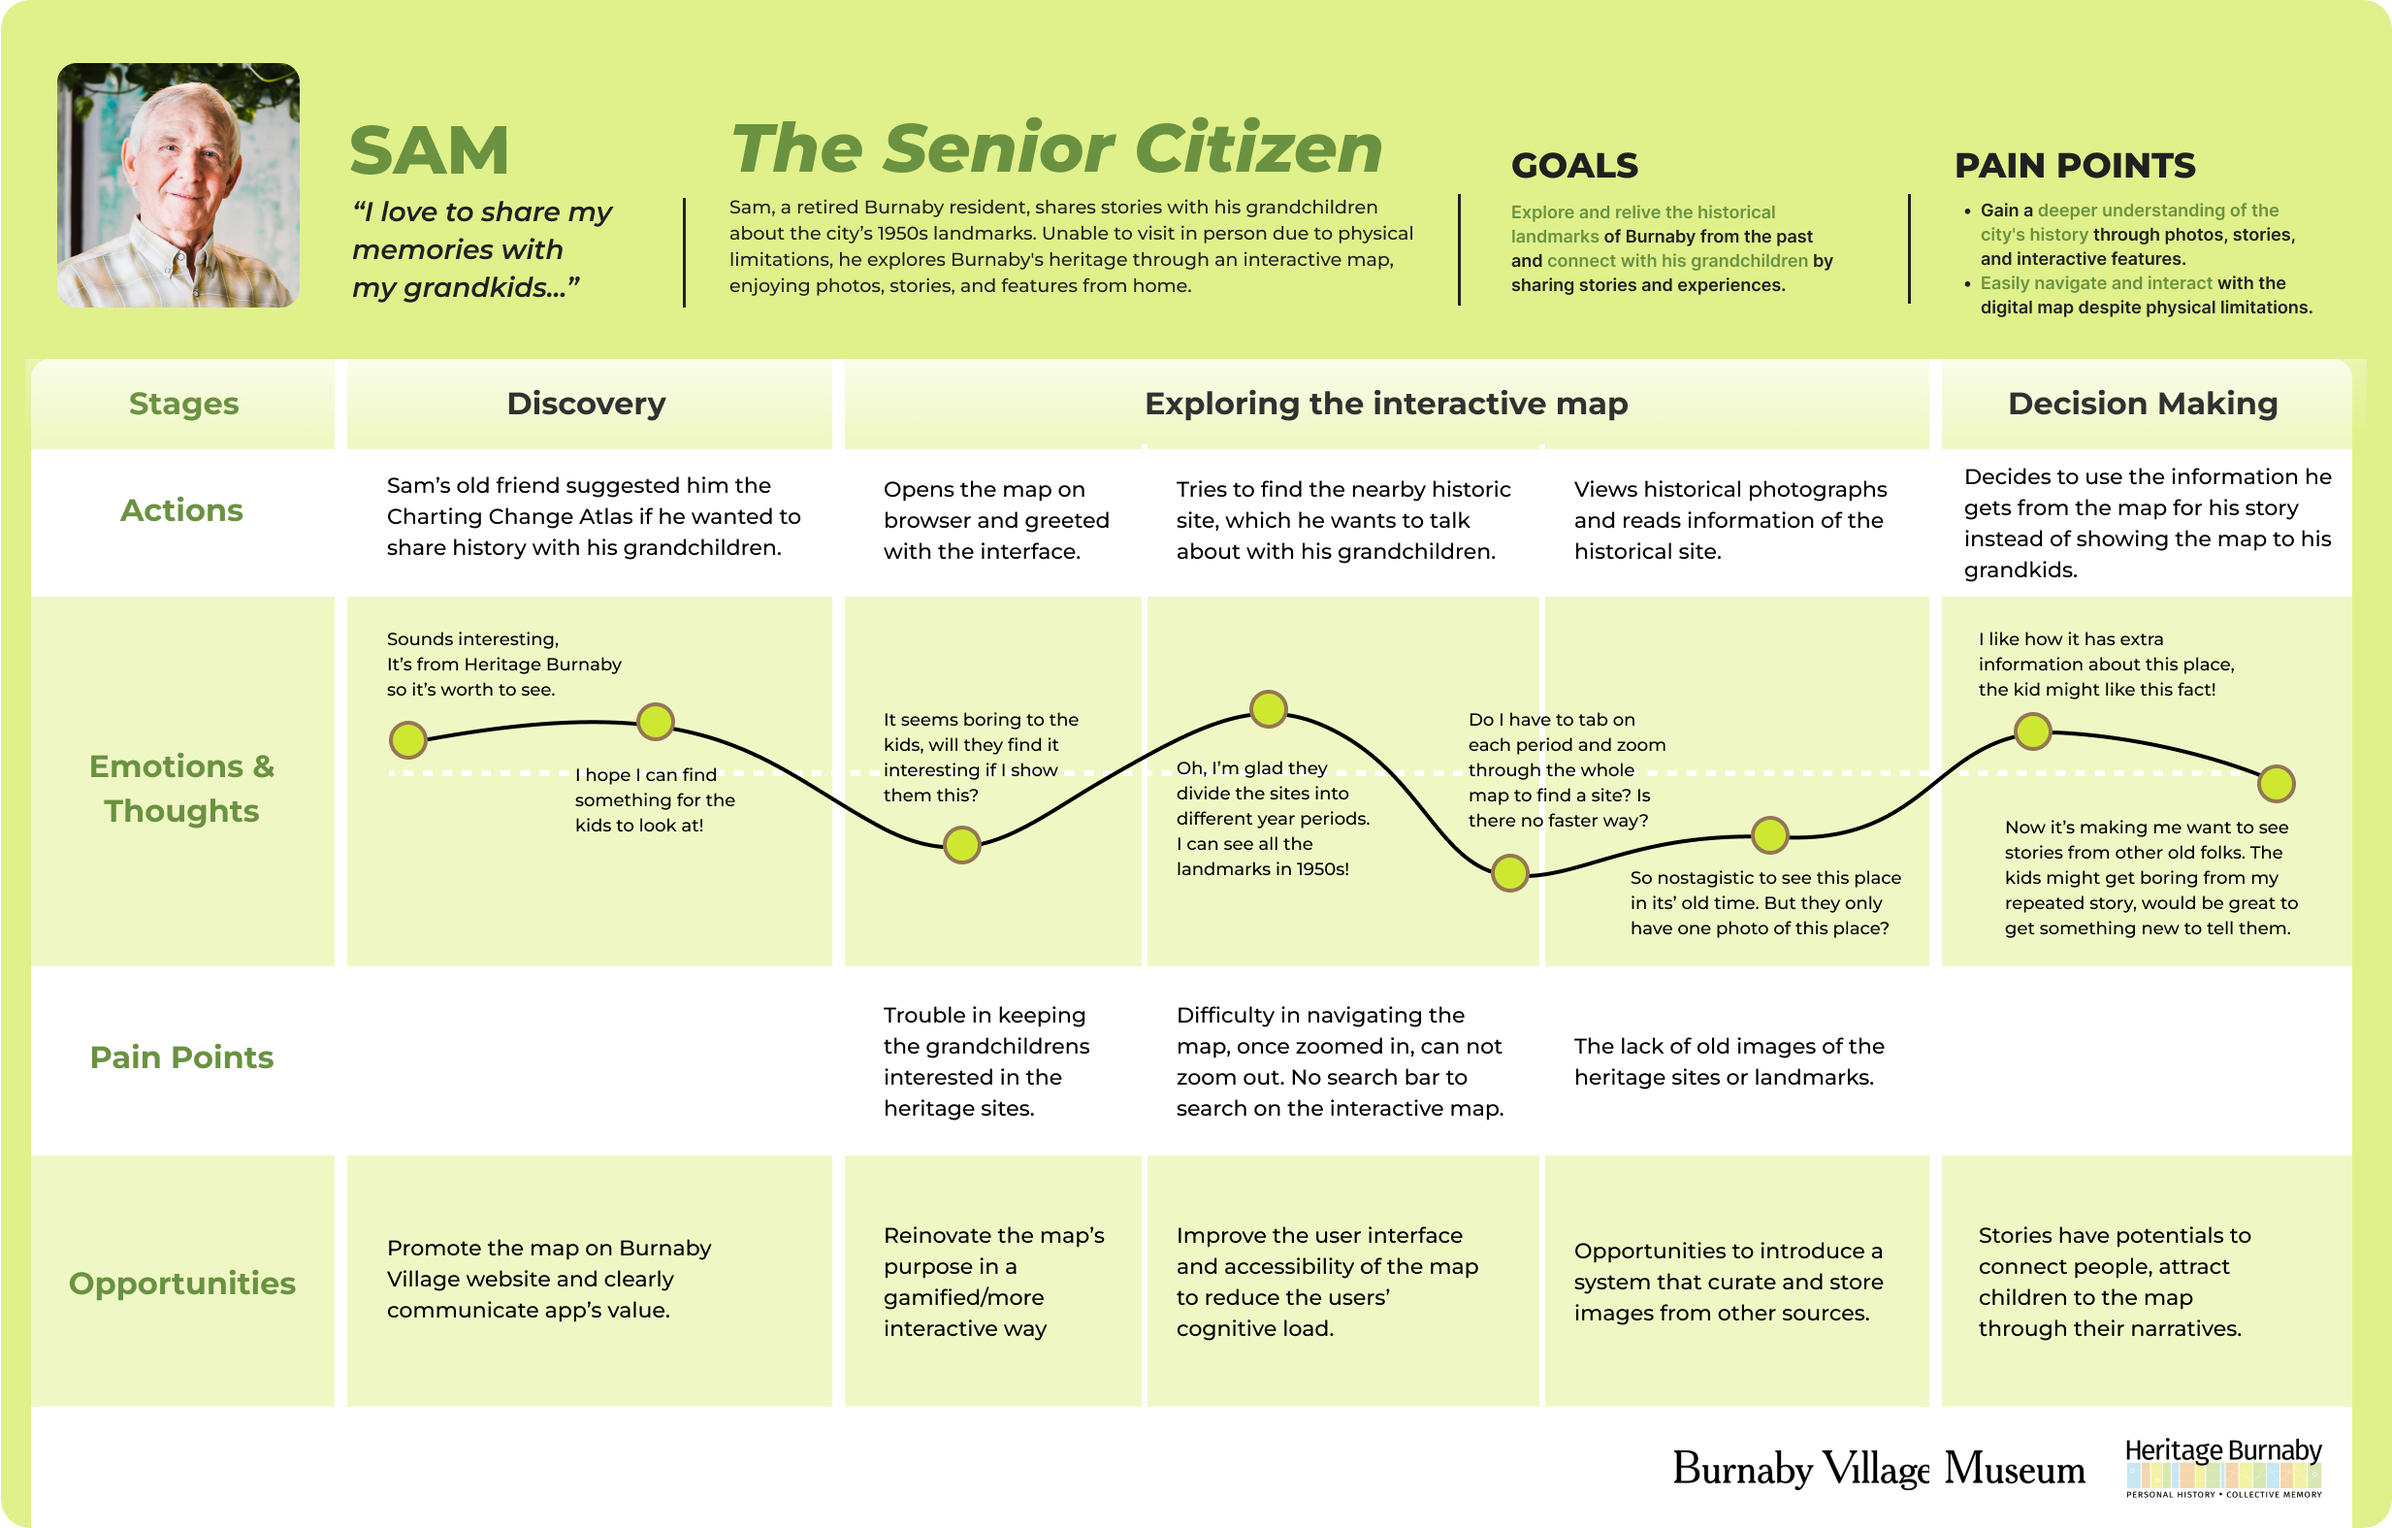
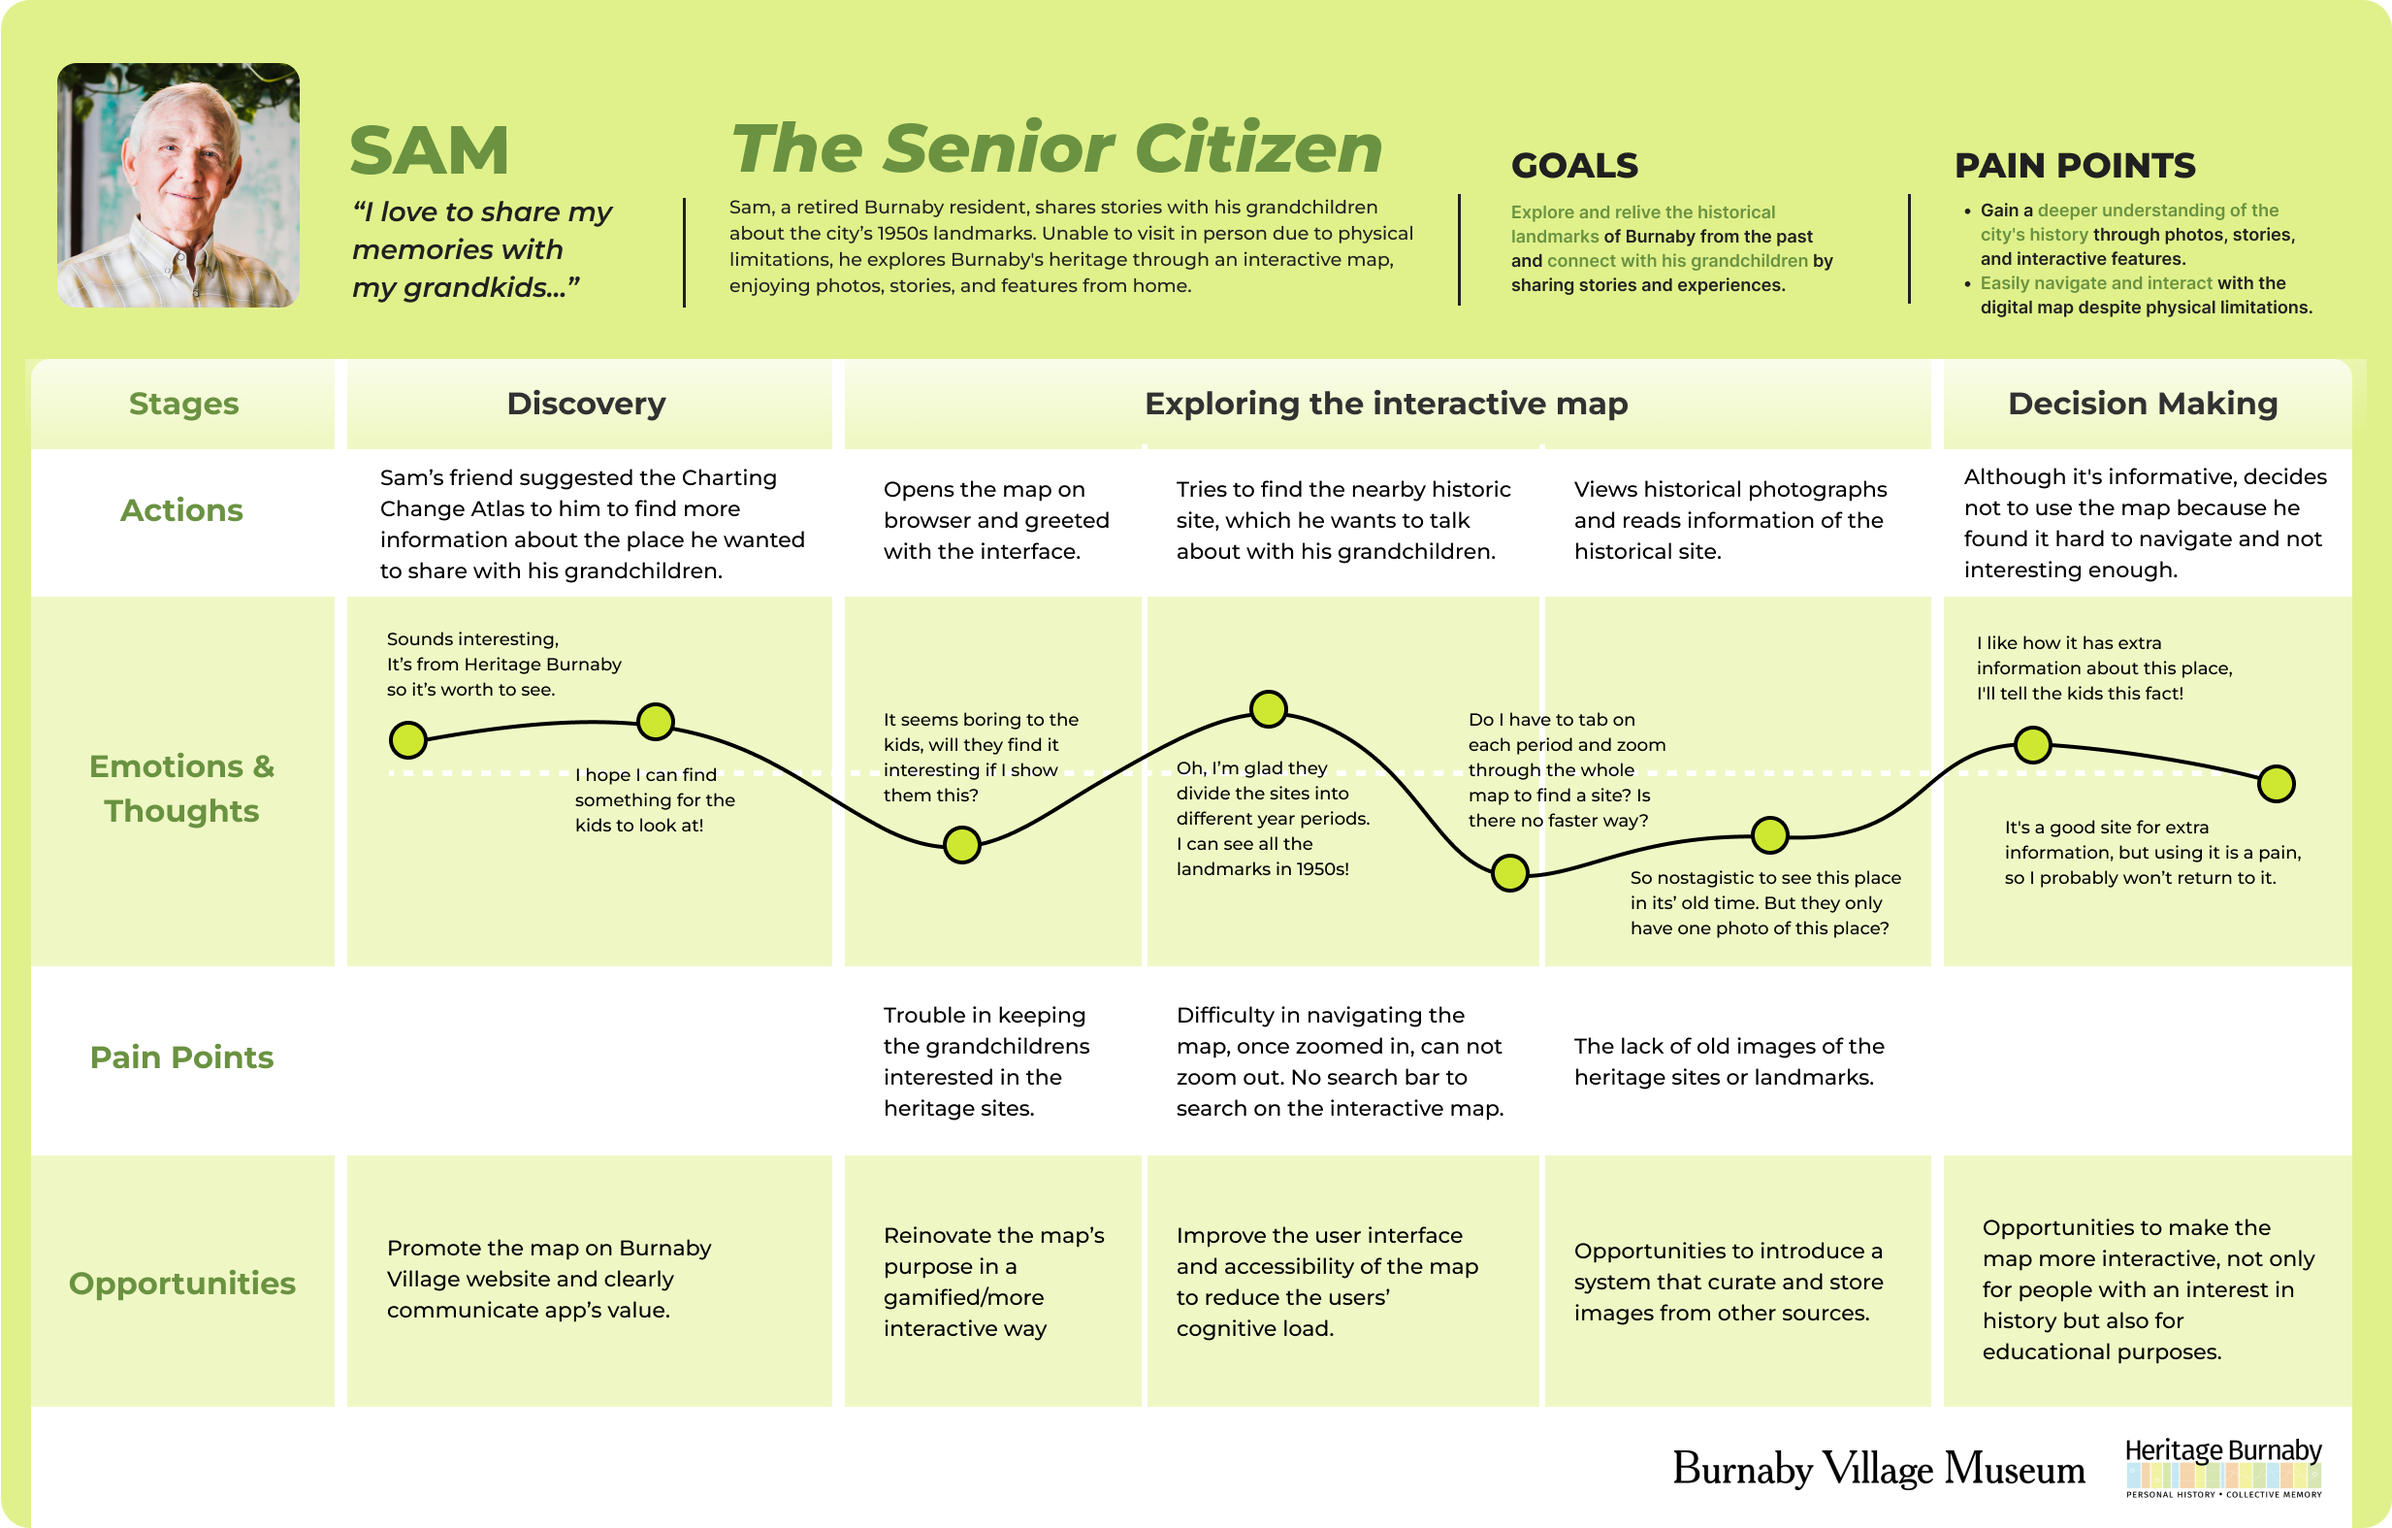
update user research

diff --git a/heritage-burnaby-map.html b/heritage-burnaby-map.html
@@ -131,7 +131,7 @@
             <p>Although we gained a valuable amount of feedback from the interview, when I sat down to synthesize the information, I decided to set aside the comments about the unappealing UI and focus more on their experience and emotions while navigating the map:</p>
               <ul>
                 <li>Users find it is unnecessary to use the map nowadays because they can always find information by googling.</li>
-                <li>The difficult navigation and unappealing interface of the maps cause frustration to the users.</li>
+                <li>The difficult navigation and lack of essential tools like search bar or intuitive zoom feature of the maps cause frustration to the users.</li>
                 <li>The exclusive information and photos from Heritage Burnaby are informative and useful for users to understand a heritage site.</li>
               </ul>
               <p>As we need to send the insights to Kate, I turned this information into a user journey to present to her, as I believe it helps her visualize our process and the target audience better. The user journey also serves as a starting point for our team to discover opportunities.</p>
